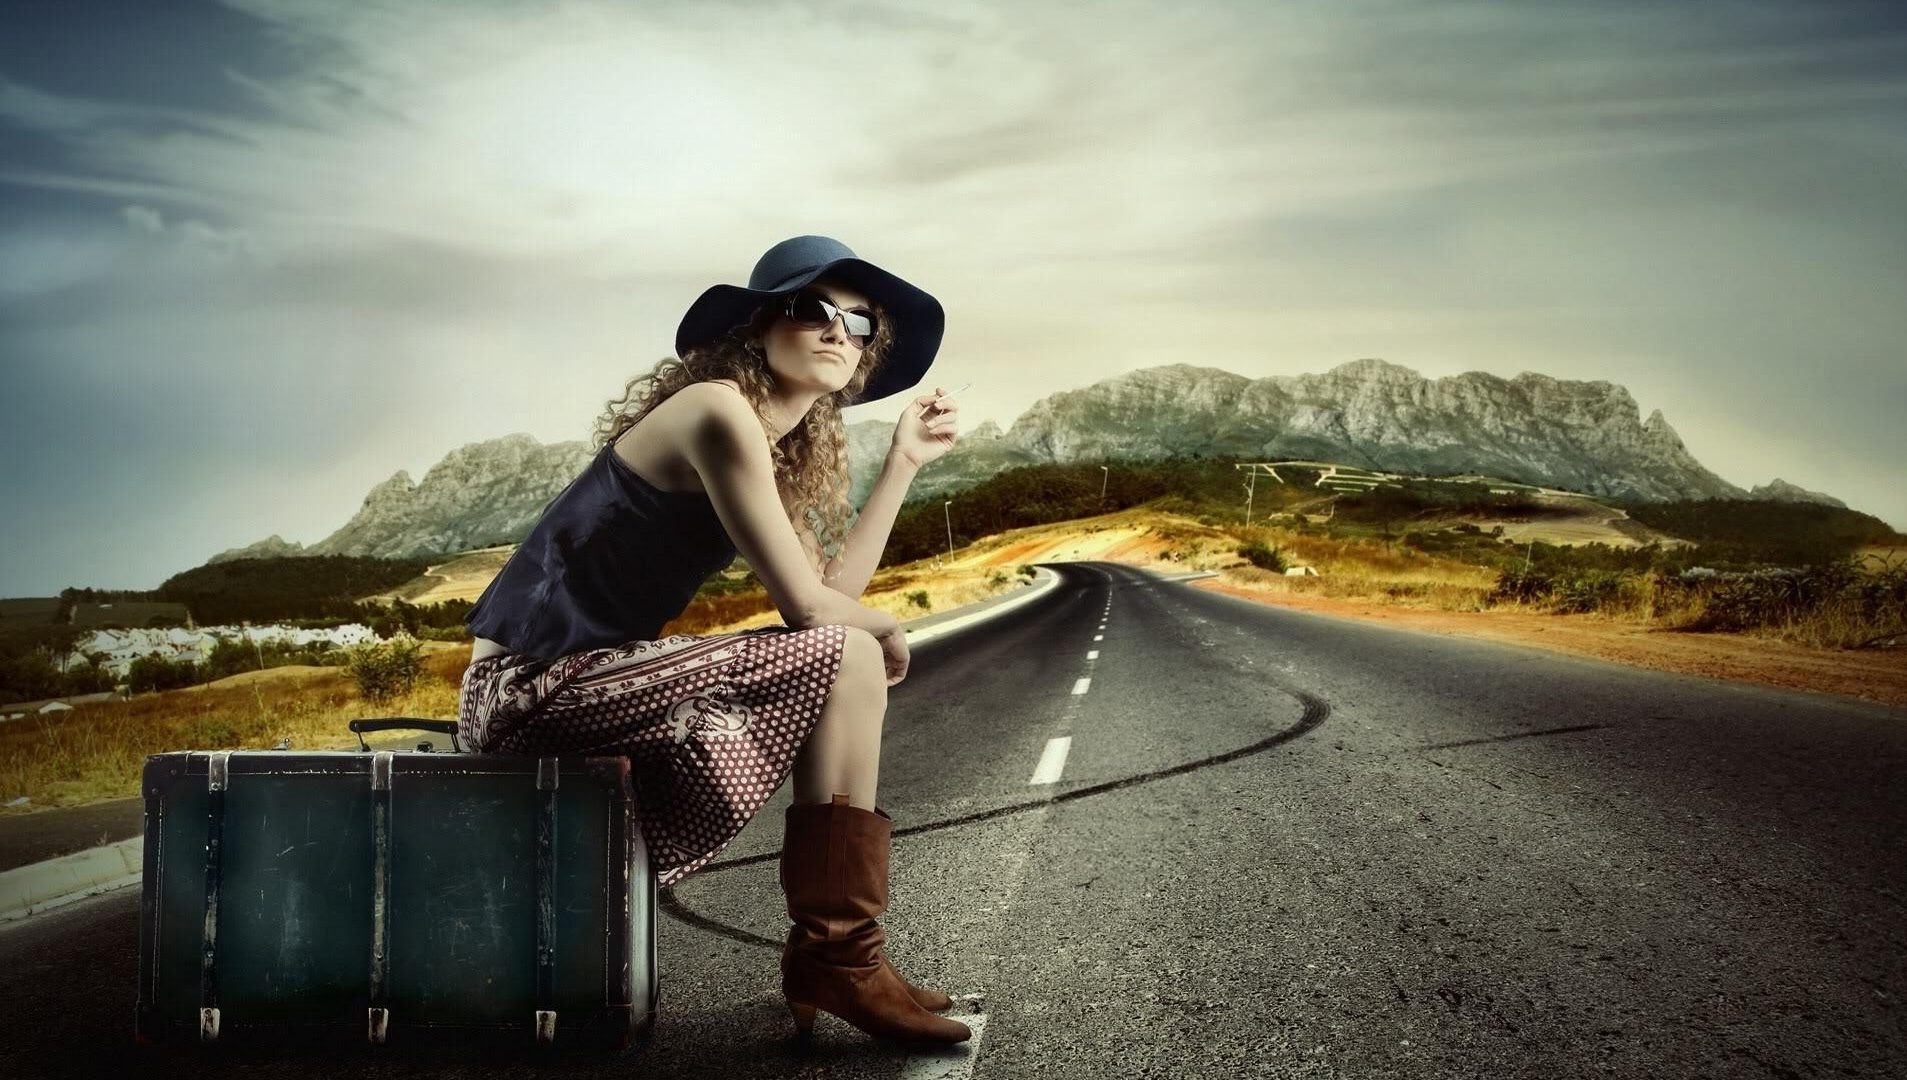
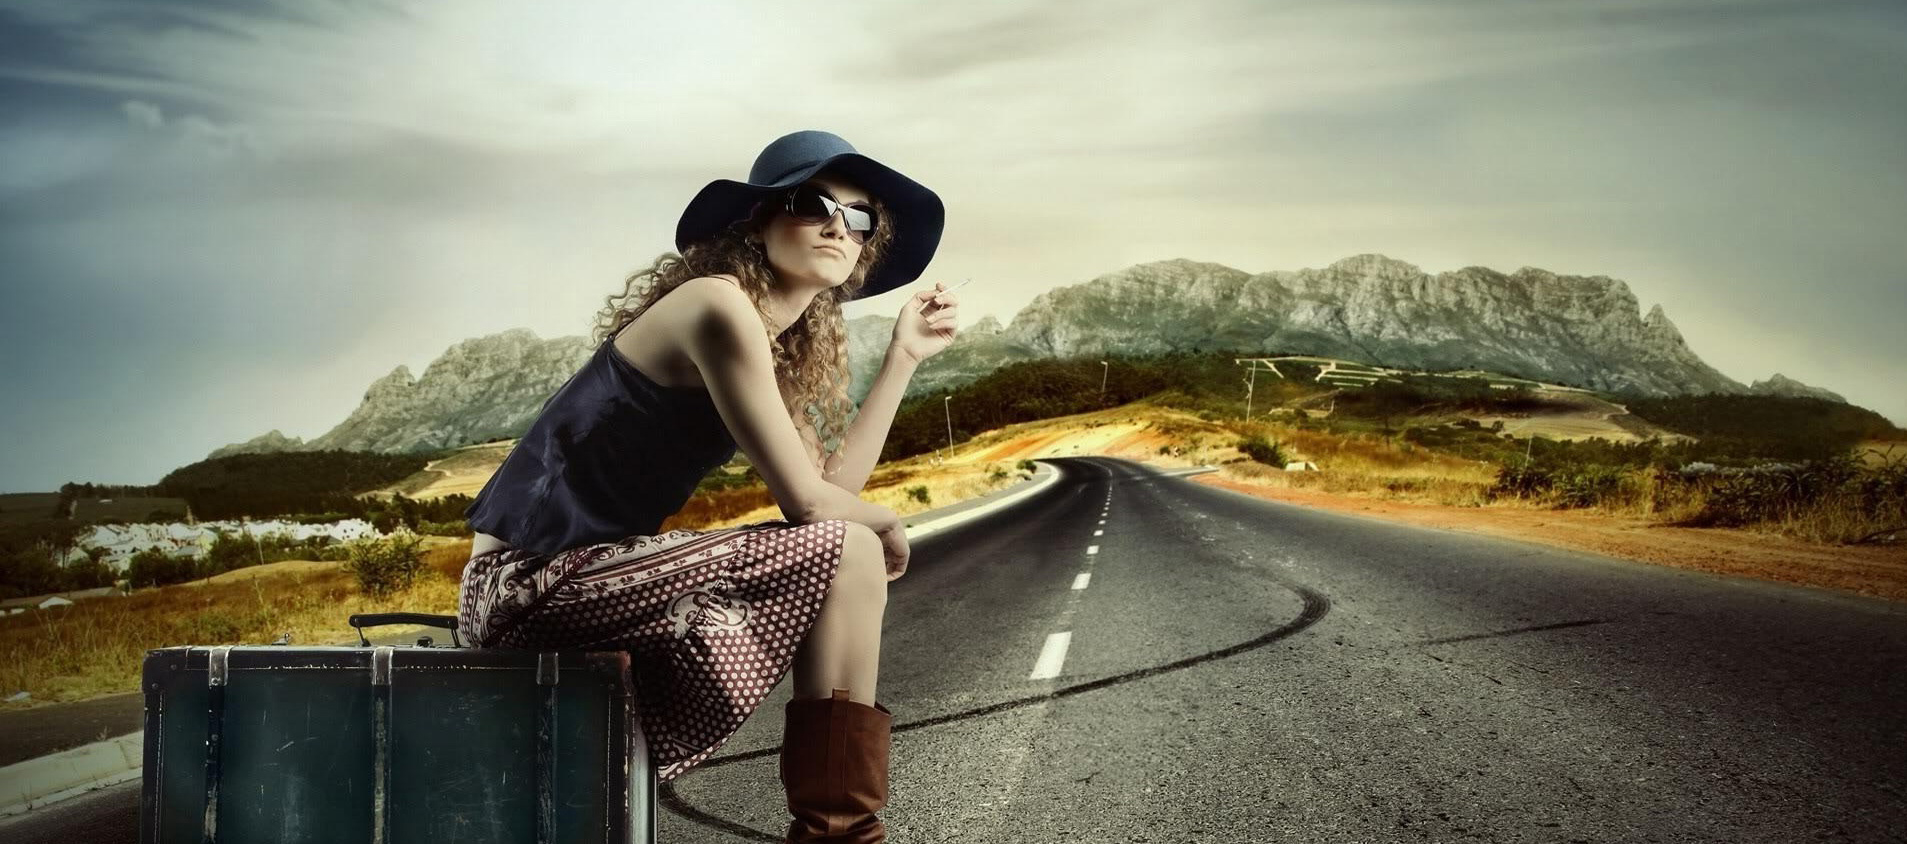
header + content section

diff --git a/index.html b/index.html
@@ -22,20 +22,68 @@
 
 </head>
     <body>
-    <div class="header_section">
-        <div class="container-fluid">
-            <div class="row">
-                <div class="col-md-5 col-md-offset-7 header_content">
-                    <h1>Travel around the world</h1>
-                    <h2>
-                        Discover a lot of amazing places. <br/>
-                        Meet new friends. <br/>
-                        Leave your comfort zone.
-                    </h2>
-                </div>
+    <div class="container">
+        <div class="row" id="navbar">
+            <div class="col-md-6">
+                <h1>Travel around the world</h1>
+            </div>
+            <div class="col-md-6">
+                <a href="#" target="_blank">Home</a>
+                <a href="#" target="_blank">Archive</a>
+                <a href="#" target="_blank">About</a>
+            </div>
+        </div>
+        <!-- HEADER IMG -->
+        <div class="row header_section">
+            <div class="col-md-4 col-md-offset-8 header_content">
+                <p>
+                    Leave your comfort zone<br/>
+                    Discover new amazing places<br/>
+                    Share you experience with other people
+                </p>
+            </div>
+        </div>
+    <!-- CONTENT -->
+        <div class="row articles">
+            <div class="col-md-6">
+                <h2>Article-1</h2>
+                <img class="img-responsive article_img" src="images/aticle_default_img.jpg" alt=""/>
+                <p>Lorem Ipsum is simply dummy text of the printing and typesetting industry. Lorem Ipsum has been the industry's standard dummy text ever since the 1500s, when an unknown printer took a galley of type and scrambled it to make a type specimen book. It has survived not only five centuries, but also the leap into electronic typesetting, remaining essentially unchanged. It was popularised in the 1960s with the release of Letraset sheets containing Lorem Ipsum passages, and more recently with desktop publishing software like Aldus PageMaker including versions tomn...</p>
+            </div>
+            <div class="col-md-6">
+                <h2>Article-2</h2>
+                <img class="img-responsive article_img" src="images/aticle_default_img.jpg" alt=""/>
+                <p>Lorem Ipsum is simply dummy text of the printing and typesetting industry. Lorem Ipsum has been the industry's standard dummy text ever since the 1500s, when an unknown printer took a galley of type and scrambled it to make a type specimen book. It has survived not only five centuries, but also the leap into electronic typesetting, remaining essentially unchanged. It was popularised in the 1960s with the release of Letraset sheets containing Lorem Ipsum passages, and more recently with desktop publishing software like Aldus PageMaker including versions tomn...</p>
+            </div>
+        </div>
+
+        <div class="row articles">
+            <div class="col-md-6">
+                <h2>Article-1</h2>
+                <img class="img-responsive article_img" src="images/aticle_default_img.jpg" alt=""/>
+                <p>Lorem Ipsum is simply dummy text of the printing and typesetting industry. Lorem Ipsum has been the industry's standard dummy text ever since the 1500s, when an unknown printer took a galley of type and scrambled it to make a type specimen book. It has survived not only five centuries, but also the leap into electronic typesetting, remaining essentially unchanged. It was popularised in the 1960s with the release of Letraset sheets containing Lorem Ipsum passages, and more recently with desktop publishing software like Aldus PageMaker including versions tomn...</p>
+            </div>
+            <div class="col-md-6">
+                <h2>Article-2</h2>
+                <img class="img-responsive article_img" src="images/aticle_default_img.jpg" alt=""/>
+                <p>Lorem Ipsum is simply dummy text of the printing and typesetting industry. Lorem Ipsum has been the industry's standard dummy text ever since the 1500s, when an unknown printer took a galley of type and scrambled it to make a type specimen book. It has survived not only five centuries, but also the leap into electronic typesetting, remaining essentially unchanged. It was popularised in the 1960s with the release of Letraset sheets containing Lorem Ipsum passages, and more recently with desktop publishing software like Aldus PageMaker including versions tomn...</p>
+            </div>
+        </div>
+
+        <div class="row articles">
+            <div class="col-md-6">
+                <h2>Article-3</h2>
+                <img class="img-responsive article_img" src="images/aticle_default_img.jpg" alt=""/>
+                <p>Lorem Ipsum is simply dummy text of the printing and typesetting industry. Lorem Ipsum has been the industry's standard dummy text ever since the 1500s, when an unknown printer took a galley of type and scrambled it to make a type specimen book. It has survived not only five centuries, but also the leap into electronic typesetting, remaining essentially unchanged. It was popularised in the 1960s with the release of Letraset sheets containing Lorem Ipsum passages, and more recently with desktop publishing software like Aldus PageMaker including versions tomn...</p>
+            </div>
+            <div class="col-md-6">
+                <h2>Article-4</h2>
+                <img class="img-responsive article_img" src="images/aticle_default_img.jpg" alt=""/>
+                <p>Lorem Ipsum is simply dummy text of the printing and typesetting industry. Lorem Ipsum has been the industry's standard dummy text ever since the 1500s, when an unknown printer took a galley of type and scrambled it to make a type specimen book. It has survived not only five centuries, but also the leap into electronic typesetting, remaining essentially unchanged. It was popularised in the 1960s with the release of Letraset sheets containing Lorem Ipsum passages, and more recently with desktop publishing software like Aldus PageMaker including versions tomn...</p>
             </div>
         </div>
     </div>
+
 
 
     <!-- jQuery -->

diff --git a/stylesheets/stylesheet.css b/stylesheets/stylesheet.css
@@ -97,25 +97,47 @@ a:hover {
 
 /* HEADER */
 /* line 21, ../sass/stylesheet.scss */
+.container {
+  box-shadow: 0 0 25px 0 rgba(0, 0, 0, 0.25);
+}
+
+/* line 24, ../sass/stylesheet.scss */
+.navbar {
+  display: inline-block;
+}
+
+/* line 27, ../sass/stylesheet.scss */
 .header_section {
   background: url("../images/header_bg.jpg") no-repeat center center;
   background-size: cover;
-  background-attachment: fixed;
-  max-height: 800px;
-}
-/* line 26, ../sass/stylesheet.scss */
-.header_section .header_content {
-  height: 800px;
-  background-color: rgba(0, 0, 0, 0.42);
-  color: #dfeacc;
-  text-align: left;
+  max-height: 500px;
 }
 /* line 31, ../sass/stylesheet.scss */
-.header_section .header_content h1 {
-  font-size: 40px;
+.header_section .header_content {
+  height: 550px;
+  color: rgba(223, 234, 204, 0.81);
 }
 /* line 34, ../sass/stylesheet.scss */
-.header_section .header_content h2 {
-  font-size: 30px;
-  line-height: 26px;
+.header_section .header_content p {
+  padding-top: 380px;
+  padding-right: 10px;
+  text-align: right;
+  font-size: 20px;
+  line-height: 36px;
+}
+
+/* CONTENT */
+/* line 44, ../sass/stylesheet.scss */
+.articles {
+  padding: 20px 15px;
+}
+/* line 46, ../sass/stylesheet.scss */
+.articles p {
+  text-align: justify;
+}
+/* line 49, ../sass/stylesheet.scss */
+.articles .article_img {
+  max-width: 100%;
+  height: auto;
+  padding: 15px 0;
 }

diff --git a/sass/stylesheet.scss b/sass/stylesheet.scss
@@ -18,22 +18,37 @@ a {
 }
 
 /* HEADER */
+.container {
+  box-shadow: 0 0 25px 0 rgba(0, 0, 0, 0.25);
+}
+.navbar {
+  display: inline-block;
+}
 .header_section {
   background: url("../images/header_bg.jpg") no-repeat center center;
   background-size: cover;
-  background-attachment: fixed;
-  max-height: 800px;
+  max-height: 500px;
   .header_content {
-    height: 800px;
-    background-color: rgba(0, 0, 0, 0.42);
-    color: #dfeacc;
-    text-align: left;
-    h1 {
-      font-size: 40px;
+    height: 550px;
+    color: rgba(223, 234, 204, 0.81);
+    p {
+      padding-top: 380px;
+      padding-right: 10px;
+      text-align: right;
+      font-size: 20px;
+      line-height: 36px;
     }
-    h2 {
-      font-size: 30px;
-      line-height: 26px;
-    }
+  }
+}
+/* CONTENT */
+.articles {
+  padding: 20px 15px;
+  p {
+    text-align: justify;
+  }
+  .article_img {
+    max-width: 100%;
+    height: auto;
+    padding: 15px 0;
   }
 }
